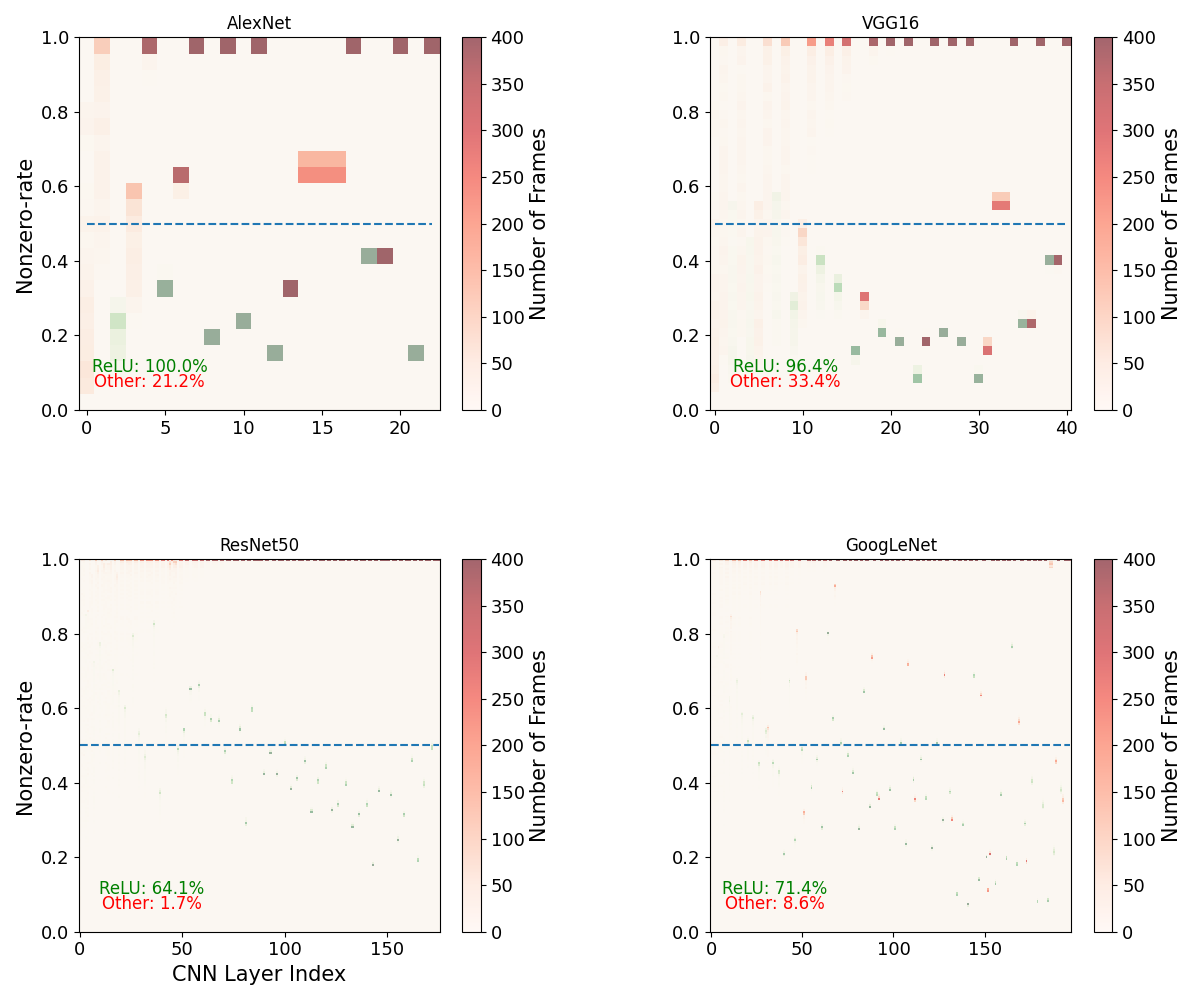
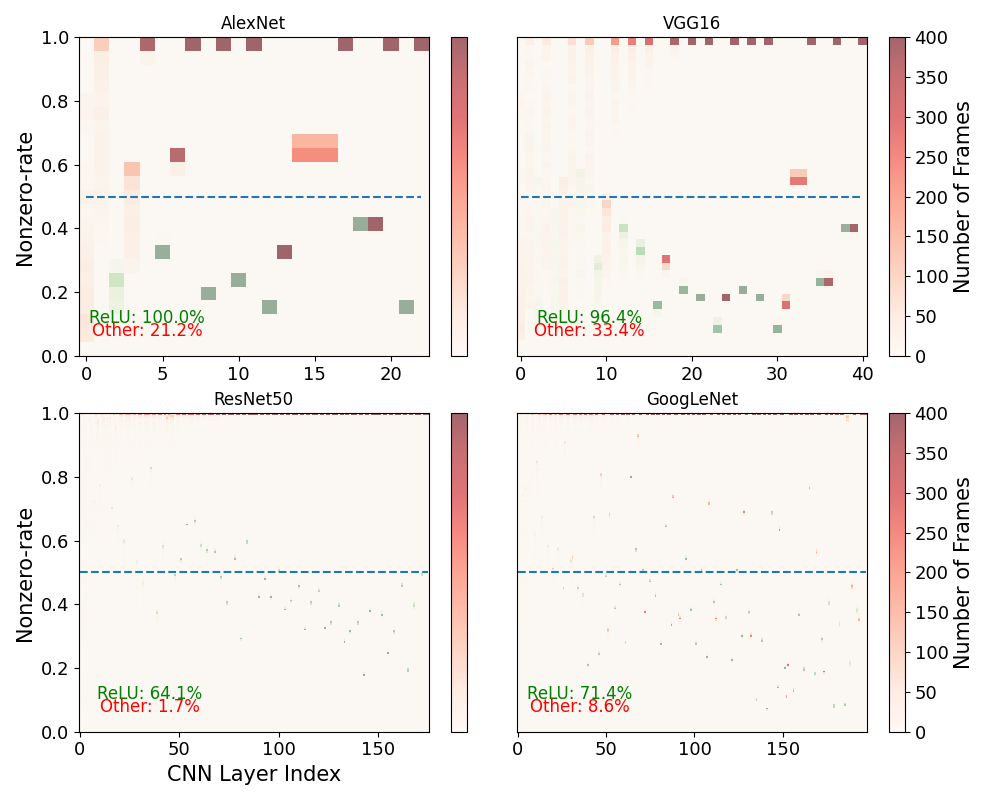
update for none_zero_rate

diff --git a/none_zero_rate/none_zero_rate_of_one_rlmx.py b/none_zero_rate/none_zero_rate_of_one_rlmx.py
@@ -114,7 +114,7 @@ if __name__ == '__main__':
     x_relu_res, y_relu_res, x_other_res, y_other_res, xedges_res, yedges_res, nlayer_res, nframe_res, sps_cnt_relu_res, sps_cnt_other_res = generate_data('ResNet', ORIGINAL)
 
     # 创建图形
-    plt.figure(figsize=(12, 10))
+    plt.figure(figsize=(10, 8))
 
     # 绘制 AlexNet 图
     plt.subplot(221)
@@ -127,11 +127,11 @@ if __name__ == '__main__':
     sparse_other = round(sps_cnt_other_ax / len(x_other_ax) * 100, 1)
     plt.text(4, 0.05, f'Other: {sparse_other}%', ha='center', va='bottom', fontsize=12, color='red')
     plt.text(4, 0.09, f'ReLU: {sparse_relu}%', ha='center', va='bottom', fontsize=12, color='green')
-    plt.gca().set_xlabel('CNN Layer Index', fontproperties=lg)
+    # plt.gca().set_xlabel('CNN Layer Index', fontproperties=lg)
     plt.gca().set_ylabel('Nonzero-rate', fontproperties=lg)
     cbar = plt.colorbar()
-    cbar.ax.tick_params(labelsize=13)
-    cbar.set_label('Number of Frames', fontproperties=lg)
+    cbar.set_ticks([])  # 隐藏刻度横线和刻度文字
+    # cbar.set_label('Number of Frames', fontproperties=lg)
 
     # 绘制 VGG16 图
     plt.subplot(222)
@@ -144,11 +144,12 @@ if __name__ == '__main__':
     sparse_other = round(sps_cnt_other_vgg / len(x_other_vgg) * 100, 1)
     plt.text(8, 0.05, f'Other: {sparse_other}%', ha='center', va='bottom', fontsize=12, color='red')
     plt.text(8, 0.09, f'ReLU: {sparse_relu}%', ha='center', va='bottom', fontsize=12, color='green')
-    plt.gca().set_xlabel('CNN Layer Index', fontproperties=lg)
-    plt.gca().set_ylabel('Nonzero-rate', fontproperties=lg)
+    # plt.gca().set_xlabel('CNN Layer Index', fontproperties=lg)
+    # plt.gca().set_ylabel('Nonzero-rate', fontproperties=lg)
     cbar = plt.colorbar()
     cbar.ax.tick_params(labelsize=13)
     cbar.set_label('Number of Frames', fontproperties=lg)
+    plt.gca().tick_params(left=False, labelleft=False)  # 去除左边刻度线和刻度文字
 
     # 绘制 ResNet50 图
     plt.subplot(223)
@@ -164,8 +165,8 @@ if __name__ == '__main__':
     plt.gca().set_xlabel('CNN Layer Index', fontproperties=lg)
     plt.gca().set_ylabel('Nonzero-rate', fontproperties=lg)
     cbar = plt.colorbar()
-    cbar.ax.tick_params(labelsize=13)
-    cbar.set_label('Number of Frames', fontproperties=lg)
+    cbar.set_ticks([])  # 隐藏刻度横线和刻度文字
+    # cbar.set_label('Number of Frames', fontproperties=lg)
 
     # 绘制 GoogLeNet 图
     plt.subplot(224)
@@ -179,12 +180,13 @@ if __name__ == '__main__':
     plt.text(35, 0.05, f'Other: {sparse_other}%', ha='center', va='bottom', fontsize=12, color='red')
     plt.text(35, 0.09, f'ReLU: {sparse_relu}%', ha='center', va='bottom', fontsize=12, color='green')
     plt.gca().set_xlabel('CNN Layer Index', fontproperties=lg)
-    plt.gca().set_ylabel('Nonzero-rate', fontproperties=lg)
+    # plt.gca().set_ylabel('Nonzero-rate', fontproperties=lg)
     cbar = plt.colorbar()
     cbar.ax.tick_params(labelsize=13)
     cbar.set_label('Number of Frames', fontproperties=lg)
+    plt.gca().tick_params(left=False, labelleft=False)  # 去除左边刻度线和刻度文字
 
     # 调整布局并保存图像
     plt.tight_layout()
-    plt.subplots_adjust(wspace=0.4, hspace=0.4)
+    plt.subplots_adjust(wspace=0.0, hspace=0.18)
     plt.savefig('none_zero_rate_of_one_rlmx.png')

diff --git a/none_zero_rate/none_zero_of_two_rlmx.py b/none_zero_rate/none_zero_of_two_rlmx.py
@@ -120,7 +120,7 @@ if __name__ == '__main__':
     x_relu_res, y_relu_res, x_other_res, y_other_res, xedges_res, yedges_res, nlayer_res, nframe_res, sps_cnt_relu_res, sps_cnt_other_res = generate_data('ResNet', ORIGINAL)
 
     # 创建图形
-    plt.figure(figsize=(12, 10))
+    plt.figure(figsize=(10, 8))
 
     # 绘制 AlexNet 图
     plt.subplot(221)
@@ -135,8 +135,8 @@ if __name__ == '__main__':
     plt.text(4, 0.05, f'Other: {sparse_other}%', ha='center', va='bottom', fontsize=12, color='red')
     plt.gca().set_ylabel('Nonzero-rate', fontproperties=lg)
     cbar = plt.colorbar()
-    cbar.ax.tick_params(labelsize=13)
-    cbar.set_label('Number of Frames', fontproperties=lg)
+    cbar.set_ticks([])  # 隐藏刻度横线和刻度文字
+    # cbar.set_label('Number of Frames', fontproperties=lg)
 
     # 绘制 VGG16 图
     plt.subplot(222)
@@ -152,6 +152,7 @@ if __name__ == '__main__':
     cbar = plt.colorbar()
     cbar.ax.tick_params(labelsize=13)
     cbar.set_label('Number of Frames', fontproperties=lg)
+    plt.gca().tick_params(left=False, labelleft=False)  # 去除左边刻度线和刻度文字
 
     # 绘制 ResNet50 图
     plt.subplot(223)
@@ -167,8 +168,8 @@ if __name__ == '__main__':
     plt.gca().set_xlabel('CNN Layer Index', fontproperties=lg)
     plt.gca().set_ylabel('Nonzero-rate', fontproperties=lg)
     cbar = plt.colorbar()
-    cbar.ax.tick_params(labelsize=13)
-    cbar.set_label('Number of Frames', fontproperties=lg)
+    cbar.set_ticks([])  # 隐藏刻度横线和刻度文字
+    # cbar.set_label('Number of Frames', fontproperties=lg)
 
     # 绘制 GoogLeNet 图
     plt.subplot(224)
@@ -184,8 +185,9 @@ if __name__ == '__main__':
     cbar = plt.colorbar()
     cbar.ax.tick_params(labelsize=13)
     cbar.set_label('Number of Frames', fontproperties=lg)
+    plt.gca().tick_params(left=False, labelleft=False)  # 去除左边刻度线和刻度文字
 
     # 调整布局并保存图像
     plt.tight_layout()
-    plt.subplots_adjust(wspace=0.4, hspace=0.4)
+    plt.subplots_adjust(wspace=0.0, hspace=0.18)
     plt.savefig('none_zero_rate_of_two_rlmx.png')
